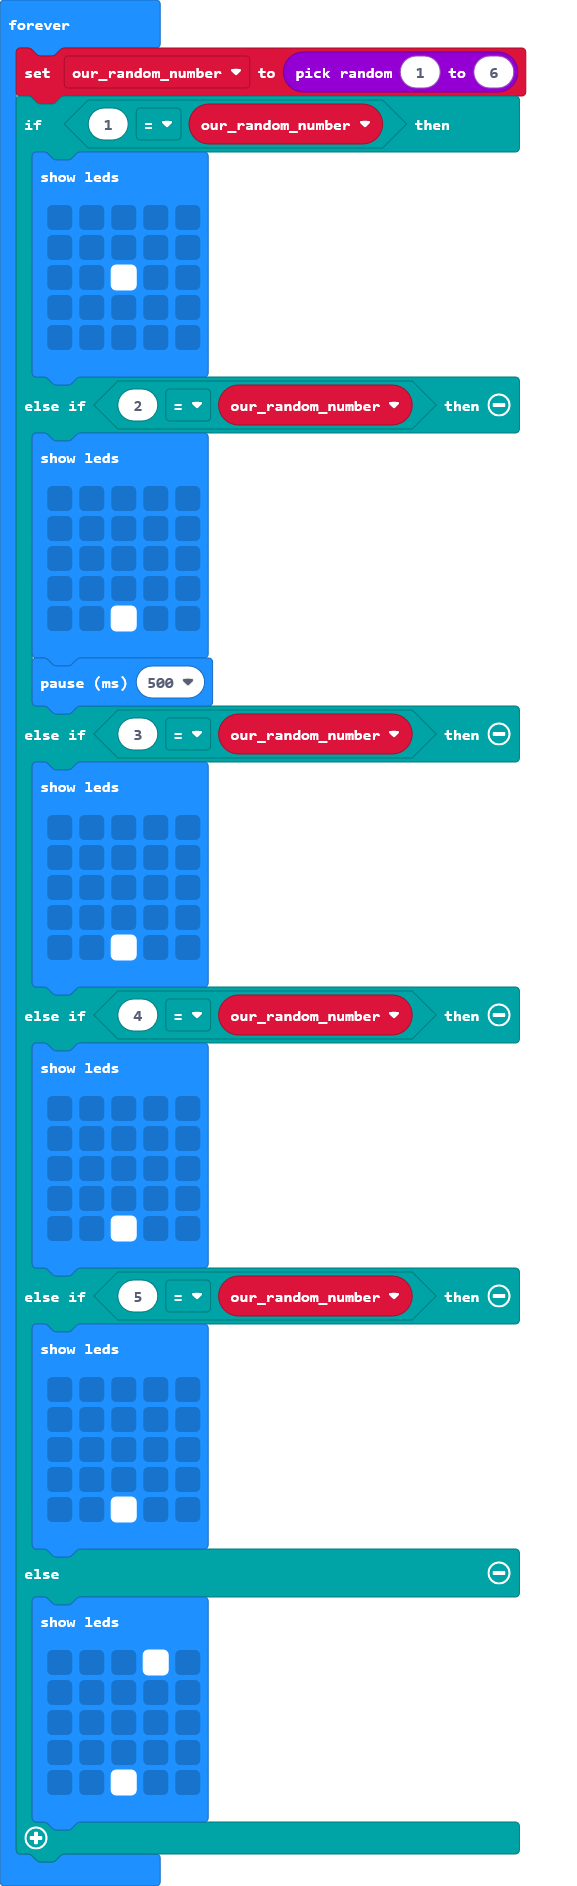
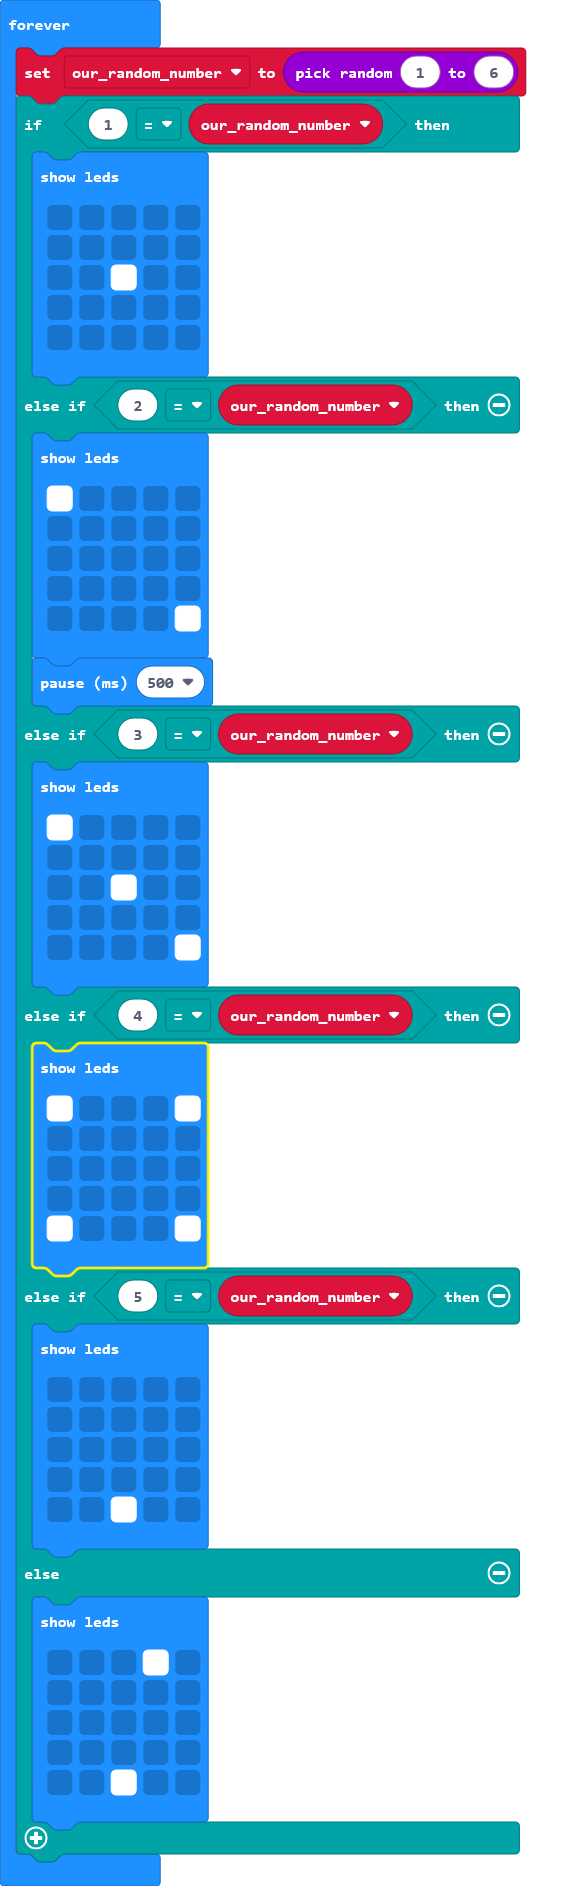
Update main.blocks, main.ts

diff --git a/main.ts b/main.ts
@@ -11,28 +11,28 @@ basic.forever(function () {
             `)
     } else if (2 == our_random_number) {
         basic.showLeds(`
+            # . . . .
             . . . . .
             . . . . .
             . . . . .
-            . . . . .
-            . . # . .
+            . . . . #
             `)
         basic.pause(500)
     } else if (3 == our_random_number) {
         basic.showLeds(`
-            . . . . .
-            . . . . .
-            . . . . .
+            # . . . .
             . . . . .
             . . # . .
+            . . . . .
+            . . . . #
             `)
     } else if (4 == our_random_number) {
         basic.showLeds(`
+            # . . . #
             . . . . .
             . . . . .
             . . . . .
-            . . . . .
-            . . # . .
+            # . . . #
             `)
     } else if (5 == our_random_number) {
         basic.showLeds(`
